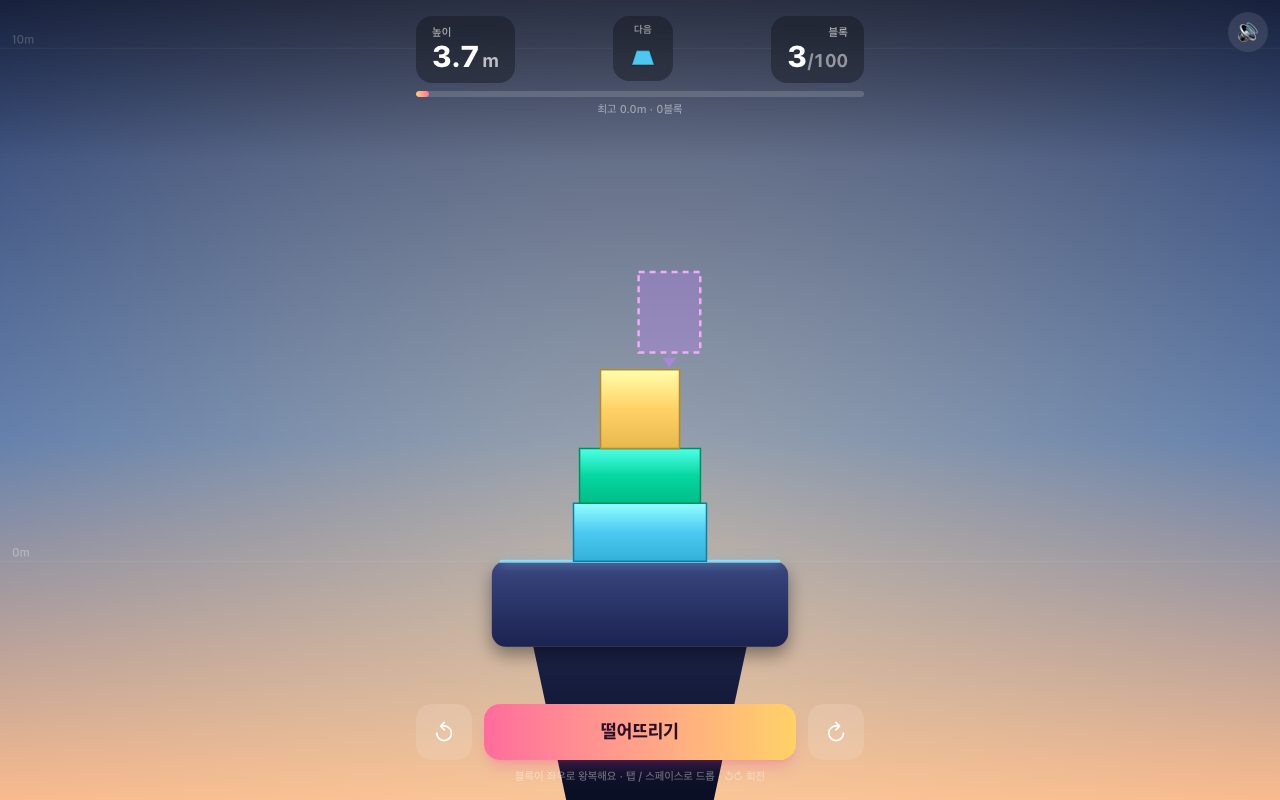
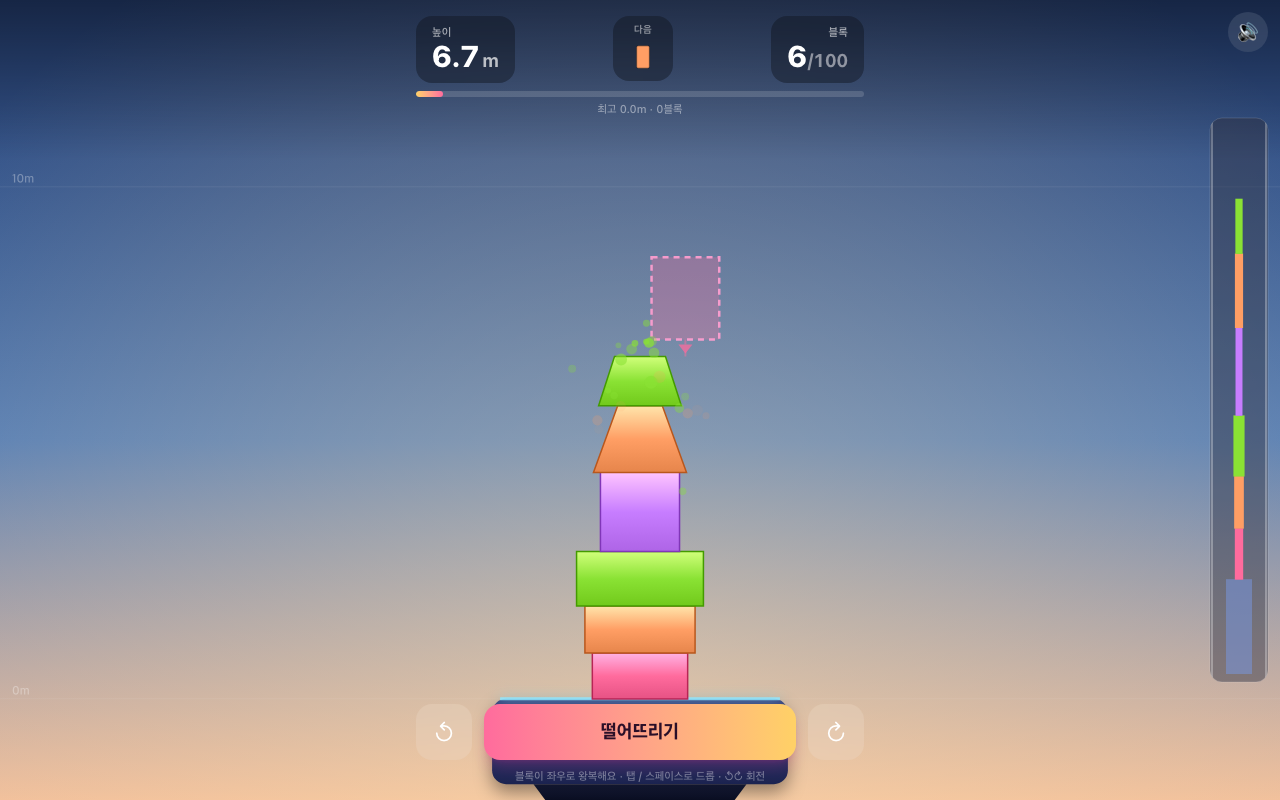
도달 최고 높이(peak) 기록 확정 + 우측 전체 탑 미니맵 오버뷰
- peak: 매 프레임 도달 최고 높이/블록수 추적, 붕괴·완주 시 붕괴 직전
  peak를 이번 판 점수로 확정(붕괴 후 낮아진 높이가 아님). 결과 화면·
  스코어 카드·기록 저장 모두 peak 기준. 순수 함수 trackPeak + 테스트 추가.
- 미니맵: 화면 우측 세로 패널에 바닥~현재 최상단 전체 탑을 축소 렌더,
  블록 실시간 갱신·실제 색, 카메라 뷰포트 박스 표시, 좁은 화면 축소/숨김.

diff --git a/src/game/engine.ts b/src/game/engine.ts
@@ -31,6 +31,7 @@ import {
   isCleared,
   loadRecord,
   saveRecord,
+  trackPeak,
   type Record as HRecord,
 } from "./logic";
 import { mulberry32, randRange, type Rng } from "./rng";
@@ -100,6 +101,8 @@ export class Game {
   private dropAt = 0;
 
   private placedCount = 0;
+  private peakHeightM = 0; // highest tower height reached this run (survives collapse)
+  private peakBlocks = 0; // most blocks standing this run (survives collapse)
   private idCounter = 1;
   private lastColor: string | undefined;
   private rng: Rng;
@@ -259,6 +262,8 @@ export class Game {
     SFX.primeAudio();
     this.clearBlocks();
     this.placedCount = 0;
+    this.peakHeightM = 0;
+    this.peakBlocks = 0;
     this.cleared = false;
     this.wobble = 0;
     this.lastColor = undefined;
@@ -352,6 +357,7 @@ export class Game {
     const b = this.active;
     this.active = null;
     this.placedCount++;
+    this.updatePeak(); // lock in this height before a possible clear/collapse
     SFX.sfxPlace();
     this.burst(b.body.position.x, b.body.bounds.min.y, b.spec.color, 10, false);
     if (isCleared(this.placedCount, TOTAL_BLOCKS)) {
@@ -365,8 +371,9 @@ export class Game {
   private clearGame() {
     this.phase = "clear";
     this.cleared = true;
-    const h = this.currentHeightM();
-    this.record = saveRecord(h, this.placedCount);
+    this.updatePeak();
+    // finalize on the PEAK reached, never a value that dipped during the run
+    this.record = saveRecord(this.peakHeightM, this.peakBlocks);
     SFX.sfxClear();
     this.confetti();
     this.emit(true);
@@ -377,11 +384,18 @@ export class Game {
     this.phase = "gameover";
     this.active = null;
     this.awaiting = false;
-    const h = this.currentHeightM();
-    this.record = saveRecord(h, this.placedCount);
+    // score the run by the peak height it reached BEFORE toppling — the tower
+    // is already tumbling (blocks falling away), so the live height is lower now.
+    this.record = saveRecord(this.peakHeightM, this.peakBlocks);
     this.cam.shakeMag = 14;
     SFX.sfxCollapse();
     this.emit(true);
+  }
+
+  /** Fold the current tower height/blocks into the run's peak (monotonic). */
+  private updatePeak() {
+    this.peakHeightM = trackPeak(this.peakHeightM, this.currentHeightM());
+    if (this.placedCount > this.peakBlocks) this.peakBlocks = this.placedCount;
   }
 
   // ---------- physics step ----------
@@ -408,6 +422,7 @@ export class Game {
         }
       }
       this.updateWobble();
+      this.updatePeak(); // keep the peak fresh even between placements
     }
   }
 
@@ -629,6 +644,97 @@ export class Game {
     if (this.awaiting && this.pending && this.phase === "playing") this.drawPreview();
     this.drawParticles();
     this.drawWobbleVignette();
+    this.drawMinimap();
+  }
+
+  /**
+   * Right-side vertical overview: the whole tower (base → current top) scaled to
+   * fit, so it stays visible even when the main camera has climbed past it. Each
+   * block is drawn in its real colour (simplified to its footprint), and a box
+   * marks the slice the main camera is currently showing. Compact/hidden on
+   * narrow screens so it never covers the play field, HUD or buttons.
+   */
+  private drawMinimap() {
+    if (this.phase === "home") return;
+    if (this.W < 460) return; // too narrow (mobile) — hide entirely
+    const ctx = this.ctx;
+    const compact = this.W < 760;
+    const panelW = compact ? 40 : 58;
+    const margin = 12;
+    const px = this.W - panelW - margin;
+    const pTop = 118; // clears the top HUD (height / next / blocks)
+    const pBottom = this.H - (this.phase === "playing" ? 118 : 32); // clears bottom controls
+    const pH = pBottom - pTop;
+    if (pH < 150) return; // not enough vertical room -> skip
+
+    // vertical world range: base of the pedestal up to the highest block (+headroom)
+    const baseY = PLATFORM_TOP_Y + PLATFORM_HEIGHT;
+    let topWorld = PLATFORM_TOP_Y;
+    for (const b of this.blocks) topWorld = Math.min(topWorld, b.body.bounds.min.y);
+    if (this.active) topWorld = Math.min(topWorld, this.active.body.bounds.min.y);
+    topWorld -= 46; // headroom above the tip
+    const worldSpan = Math.max(baseY - topWorld, 260);
+
+    // fixed horizontal range so the tower doesn't slide sideways as it grows
+    const halfX = AIM_RANGE + 34;
+
+    const padX = 6;
+    const padY = 8;
+    const innerW = panelW - padX * 2;
+    const innerH = pH - padY * 2;
+    const mx = (wx: number) => px + padX + ((wx + halfX) / (halfX * 2)) * innerW;
+    const my = (wy: number) => pTop + padY + ((wy - topWorld) / worldSpan) * innerH;
+
+    ctx.save();
+    // panel background
+    roundRect(ctx, px, pTop, panelW, pH, 12);
+    ctx.fillStyle = "rgba(9,13,32,0.42)";
+    ctx.fill();
+    ctx.strokeStyle = "rgba(255,255,255,0.16)";
+    ctx.lineWidth = 1;
+    ctx.stroke();
+    // keep every mark inside the rounded panel
+    roundRect(ctx, px, pTop, panelW, pH, 12);
+    ctx.clip();
+
+    // camera viewport slice (what the main view is currently showing)
+    const viewTop = my(this.cam.y - this.H / 2 / this.cam.zoom);
+    const viewBot = my(this.cam.y + this.H / 2 / this.cam.zoom);
+    ctx.fillStyle = "rgba(255,255,255,0.08)";
+    ctx.fillRect(px, viewTop, panelW, viewBot - viewTop);
+    ctx.strokeStyle = "rgba(255,255,255,0.5)";
+    ctx.lineWidth = 1.2;
+    ctx.strokeRect(px + 2, viewTop, panelW - 4, viewBot - viewTop);
+
+    // pedestal at the base
+    const pl = mx(-PLATFORM_WIDTH / 2);
+    const pr = mx(PLATFORM_WIDTH / 2);
+    const pby = my(PLATFORM_TOP_Y);
+    ctx.fillStyle = "rgba(120,150,220,0.55)";
+    ctx.fillRect(pl, pby, pr - pl, Math.max(2, my(baseY) - pby));
+
+    // blocks (real colour, simplified to footprint)
+    for (const b of this.blocks) {
+      const l = mx(b.body.bounds.min.x);
+      const r = mx(b.body.bounds.max.x);
+      const t = my(b.body.bounds.min.y);
+      const btm = my(b.body.bounds.max.y);
+      ctx.fillStyle = b.spec.color;
+      ctx.fillRect(l, t, Math.max(1.6, r - l), Math.max(1.6, btm - t));
+    }
+    // the in-flight block, dimmer
+    if (this.active) {
+      const b = this.active;
+      const l = mx(b.body.bounds.min.x);
+      const r = mx(b.body.bounds.max.x);
+      const t = my(b.body.bounds.min.y);
+      const btm = my(b.body.bounds.max.y);
+      ctx.globalAlpha = 0.7;
+      ctx.fillStyle = b.spec.color;
+      ctx.fillRect(l, t, Math.max(1.6, r - l), Math.max(1.6, btm - t));
+      ctx.globalAlpha = 1;
+    }
+    ctx.restore();
   }
 
   private drawStars(amount: number) {
@@ -941,6 +1047,8 @@ export class Game {
       placed: this.placedCount,
       total: TOTAL_BLOCKS,
       heightM: this.currentHeightM(),
+      peakM: Math.max(this.peakHeightM, this.currentHeightM()),
+      peakBlocks: Math.max(this.peakBlocks, this.placedCount),
       bestM: this.record.heightM,
       bestBlocks: this.record.blocks,
       awaitingDrop: this.awaiting,
@@ -1028,7 +1136,8 @@ export class Game {
     cv.width = W;
     cv.height = H;
     const ctx = cv.getContext("2d")!;
-    const alt = this.currentHeightM();
+    // report the peak reached this run, not the (possibly collapsed) live height
+    const alt = Math.max(this.peakHeightM, this.currentHeightM());
     const sky = sampleSky(alt);
 
     const g = ctx.createLinearGradient(0, 0, 0, H);
@@ -1127,7 +1236,7 @@ export class Game {
 
     ctx.fillStyle = "rgba(255,255,255,0.8)";
     ctx.font = "600 44px -apple-system, sans-serif";
-    ctx.fillText(`블록 ${this.placedCount} / ${TOTAL_BLOCKS}`, W / 2, 380);
+    ctx.fillText(`블록 ${Math.max(this.peakBlocks, this.placedCount)} / ${TOTAL_BLOCKS}`, W / 2, 380);
 
     ctx.fillStyle = "rgba(255,255,255,0.55)";
     ctx.font = "700 40px -apple-system, sans-serif";
@@ -1150,6 +1259,10 @@ export class Game {
         placed: this.placedCount,
         awaitingDrop: this.awaiting,
         heightM: this.currentHeightM(),
+        peakM: Math.max(this.peakHeightM, this.currentHeightM()),
+        peakBlocks: Math.max(this.peakBlocks, this.placedCount),
+        bestM: this.record.heightM,
+        bestBlocks: this.record.blocks,
         settledTopY: this.settledTopY(),
         topX: this.topBlockCenterX(),
         topY: this.topBlockTopY(),

diff --git a/scripts/test-logic.ts b/scripts/test-logic.ts
@@ -13,8 +13,10 @@ import {
   heightMeters,
   isCleared,
   isNewRecord,
+  saveRecord,
   towerHeightMeters,
   towerTopY,
+  trackPeak,
   type BlockLite,
 } from "../src/game/logic";
 import {
@@ -216,6 +218,26 @@ function approx(a: number, b: number, eps = 1e-6) {
   ok("remaining clamps", blocksRemaining(120) === 0);
   ok("new record when higher", isNewRecord(12.5, 10));
   ok("not new record when lower", !isNewRecord(8, 10));
+}
+
+// ---- peak-height tracking (record is the peak reached, not the post-collapse height) ----
+{
+  ok("peak keeps the larger value", trackPeak(4, 7) === 7 && trackPeak(9, 3) === 9);
+  ok("peak ignores a drop", trackPeak(12.5, 12.5 - 4) === 12.5);
+
+  // simulate a run whose height climbs, then collapses: 0 → up to 8.4 → tumbles to 1.2
+  const series = [0, 1.5, 3.2, 5.0, 6.7, 8.4, 5.1, 2.0, 1.2];
+  let peak = 0;
+  for (const h of series) peak = trackPeak(peak, h);
+  ok("peak is the max reached during the run", approx(peak, 8.4));
+  ok("peak is not the final (post-collapse) height", peak > series[series.length - 1]);
+
+  // the finalized record uses the peak, so a collapse can't shrink the score
+  const finalHeight = series[series.length - 1]; // 1.2 after tumbling
+  const rec = saveRecord(peak, 12); // in Node there's no localStorage -> starts from {0,0}
+  ok("saved record equals the peak, not the collapsed height", approx(rec.heightM, 8.4));
+  ok("saving the collapsed height would have been worse", finalHeight < rec.heightM);
+  ok("peak-blocks preserved in record", rec.blocks === 12);
 }
 
 // ---- formatting ----

diff --git a/src/App.tsx b/src/App.tsx
@@ -243,12 +243,12 @@ export default function App() {
             </p>
 
             <div className="mt-5 flex gap-3">
-              <Stat label="높이" value={`${formatHeight(hud.heightM)}m`} />
-              <Stat label="블록" value={`${hud.placed}/${hud.total}`} />
+              <Stat label="도달 높이" value={`${formatHeight(hud.peakM)}m`} />
+              <Stat label="블록" value={`${hud.peakBlocks}/${hud.total}`} />
             </div>
             <div className="mt-3 rounded-2xl bg-white/5 py-2 text-sm font-semibold text-white/70">
               🏆 최고 {formatHeight(hud.bestM)}m · {hud.bestBlocks}블록
-              {hud.heightM >= hud.bestM - 0.05 && hud.heightM > 0 && (
+              {hud.peakM >= hud.bestM - 0.05 && hud.peakM > 0 && (
                 <span className="ml-2 rounded-full bg-[#FFD166] px-2 py-0.5 text-[11px] font-bold text-[#3a2a00]">
                   신기록!
                 </span>

diff --git a/src/game/logic.ts b/src/game/logic.ts
@@ -72,6 +72,16 @@ export function isNewRecord(candidateM: number, bestM: number): boolean {
   return candidateM > bestM + 1e-6;
 }
 
+/**
+ * Running peak of a series of instantaneous heights. The tower's height rises as
+ * blocks settle but can *drop* the instant it topples (blocks tumble away). We
+ * keep the highest value ever seen so the run is scored by the peak it reached,
+ * not by whatever is left standing after a collapse.
+ */
+export function trackPeak(peak: number, current: number): number {
+  return current > peak ? current : peak;
+}
+
 export function formatHeight(m: number): string {
   if (m >= 100) return m.toFixed(0);
   return m.toFixed(1);

diff --git a/src/game/types.ts b/src/game/types.ts
@@ -49,6 +49,8 @@ export interface HudState {
   placed: number; // number of blocks successfully placed (settled)
   total: number; // max blocks (100)
   heightM: number; // current tower height in meters
+  peakM: number; // highest height reached this run (survives a collapse)
+  peakBlocks: number; // most blocks standing this run (survives a collapse)
   bestM: number; // best height record (meters)
   bestBlocks: number;
   awaitingDrop: boolean; // a new block is ready to be aimed & dropped

diff --git a/README.md b/README.md
@@ -33,7 +33,8 @@
 - 🧱 **다양한 랜덤 블록** — 정사각·직사각·와이드·사다리꼴·L자·T자·다각형·반원·원. 초반 30층 가까이는 **평평한 모양만** 나오고, **굴러가기 쉬운 원/반원은 탑 절반쯤(45층 이후)부터 드물게** 등장해 후반 긴장감을 담당합니다.
 - ⚖ **진짜 물리 밸런스** — 커스텀 캔버스 렌더링 + 고정 timestep 물리 시뮬레이션. 반발 0·높은 마찰·슬리핑 튜닝으로 **잘 놓으면 미동도 없이 단단**, 치우치면 여지없이 토플.
 - 📈 **높이·블록 수 HUD** — 실시간 높이(m), 진행도(/100), 흔들림 경고. 탑이 자라면 카메라가 위로 따라 올라갑니다.
-- 🏆 **최고 기록 저장** — `localStorage`에 최고 높이/블록 수 기록. 게임오버·완주 시 **결과 스코어 카드**(탑 스냅샷 이미지) 저장/공유.
+- 🗺 **전체 탑 미니맵(오버뷰)** — 화면 오른쪽 세로 패널에 **바닥부터 현재 최상단까지 전체 탑을 축소**해 항상 보여줍니다. 블록이 쌓일수록 실시간으로 갱신되고 각 블록을 **실제 색**으로 렌더링하며, **메인 카메라가 보고 있는 구간을 뷰포트 박스**로 표시합니다. 반투명·컴팩트하게 우측에 배치되어 플레이·HUD·버튼을 가리지 않고, 좁은 화면에서는 더 얇아지거나(모바일) 숨겨집니다.
+- 🏆 **도달 최고 높이 기록** — 매 프레임 **도달한 최고 높이(peak)** 를 추적해, 탑이 무너져도 **붕괴 직전에 도달했던 최고 높이**를 이번 판 점수로 확정합니다(붕괴 후 낮아진 높이가 아님). 그 peak가 `localStorage`의 최고 기록보다 크면 갱신하며, 결과 화면·스코어 카드도 peak(높이/블록 수) 기준으로 표시합니다. 게임오버·완주 시 **결과 스코어 카드**(탑 스냅샷 이미지)로 저장/공유.
 - 🔊 **효과음 & 파티클** — Web Audio 기반 사운드, 안착 스파클, 붕괴 흔들림, 완주 컨페티.
 
 ## 🕹 조작법
@@ -53,13 +54,15 @@
 
 ## 🧪 검증
 
-게임 상태 로직(블록 생성/난수, 자동 왕복 스윙 수식, 높이·점수 계산, 100개 제한, 무너짐 판정, 삼각형 제거)은 순수 함수로 분리해 자동 테스트합니다.
+게임 상태 로직(블록 생성/난수, 자동 왕복 스윙 수식, 높이·점수 계산, 100개 제한, 무너짐 판정, 삼각형 제거, **도달 최고 높이(peak) 확정**)은 순수 함수로 분리해 자동 테스트합니다.
 
 ```bash
-npm test   # 순수 로직 56개 단언 (tsx)
+npm test   # 순수 로직 63개 단언 (tsx)
 ```
 
-물리 플레이는 Playwright로 실제 구동을 확인했습니다 — 입력 없이도 블록이 좌우로 왕복하고(초반 스윙 주기가 이전보다 길어져 더 여유롭습니다), 탭한 순간의 위치에 안착하며, 다음 미리보기가 실제 다음 블록과 일치하고, 셰이프 풀에서 삼각형은 절대 나오지 않습니다. 또 **넓어진 받침대 위에서 중앙 정렬로 쌓은 탑은 몇 초를 기다려도 거의 흔들리지 않고**(위치·각도 drift 극소), 난이도를 낮췄어도 **일부러 치우치게 쌓으면 여전히 기울다 게임오버**로 이어집니다.
+peak 로직은 별도 단언으로, **높이가 올랐다가 붕괴로 다시 내려가도 기록은 peak로 확정**되는지(붕괴 후 낮아진 값이 아님)를 검증합니다.
+
+물리 플레이는 Playwright로 실제 구동을 확인했습니다 — 입력 없이도 블록이 좌우로 왕복하고(초반 스윙 주기가 이전보다 길어져 더 여유롭습니다), 탭한 순간의 위치에 안착하며, 다음 미리보기가 실제 다음 블록과 일치하고, 셰이프 풀에서 삼각형은 절대 나오지 않습니다. 또 **넓어진 받침대 위에서 중앙 정렬로 쌓은 탑은 몇 초를 기다려도 거의 흔들리지 않고**(위치·각도 drift 극소), 난이도를 낮췄어도 **일부러 치우치게 쌓으면 여전히 기울다 게임오버**로 이어집니다. 추가로 (a) 블록을 쌓다 **일부러 무너뜨렸을 때 결과·최고 기록이 붕괴 직전 peak로 확정·저장**되고(붕괴 후 낮아진 라이브 높이가 아님), (b) **오른쪽 미니맵에 전체 탑이 축소 표시되며 블록을 추가할수록 갱신**되는 것을 픽셀 단위로 확인했습니다.
 
 ## 🚀 로컬 실행
 
